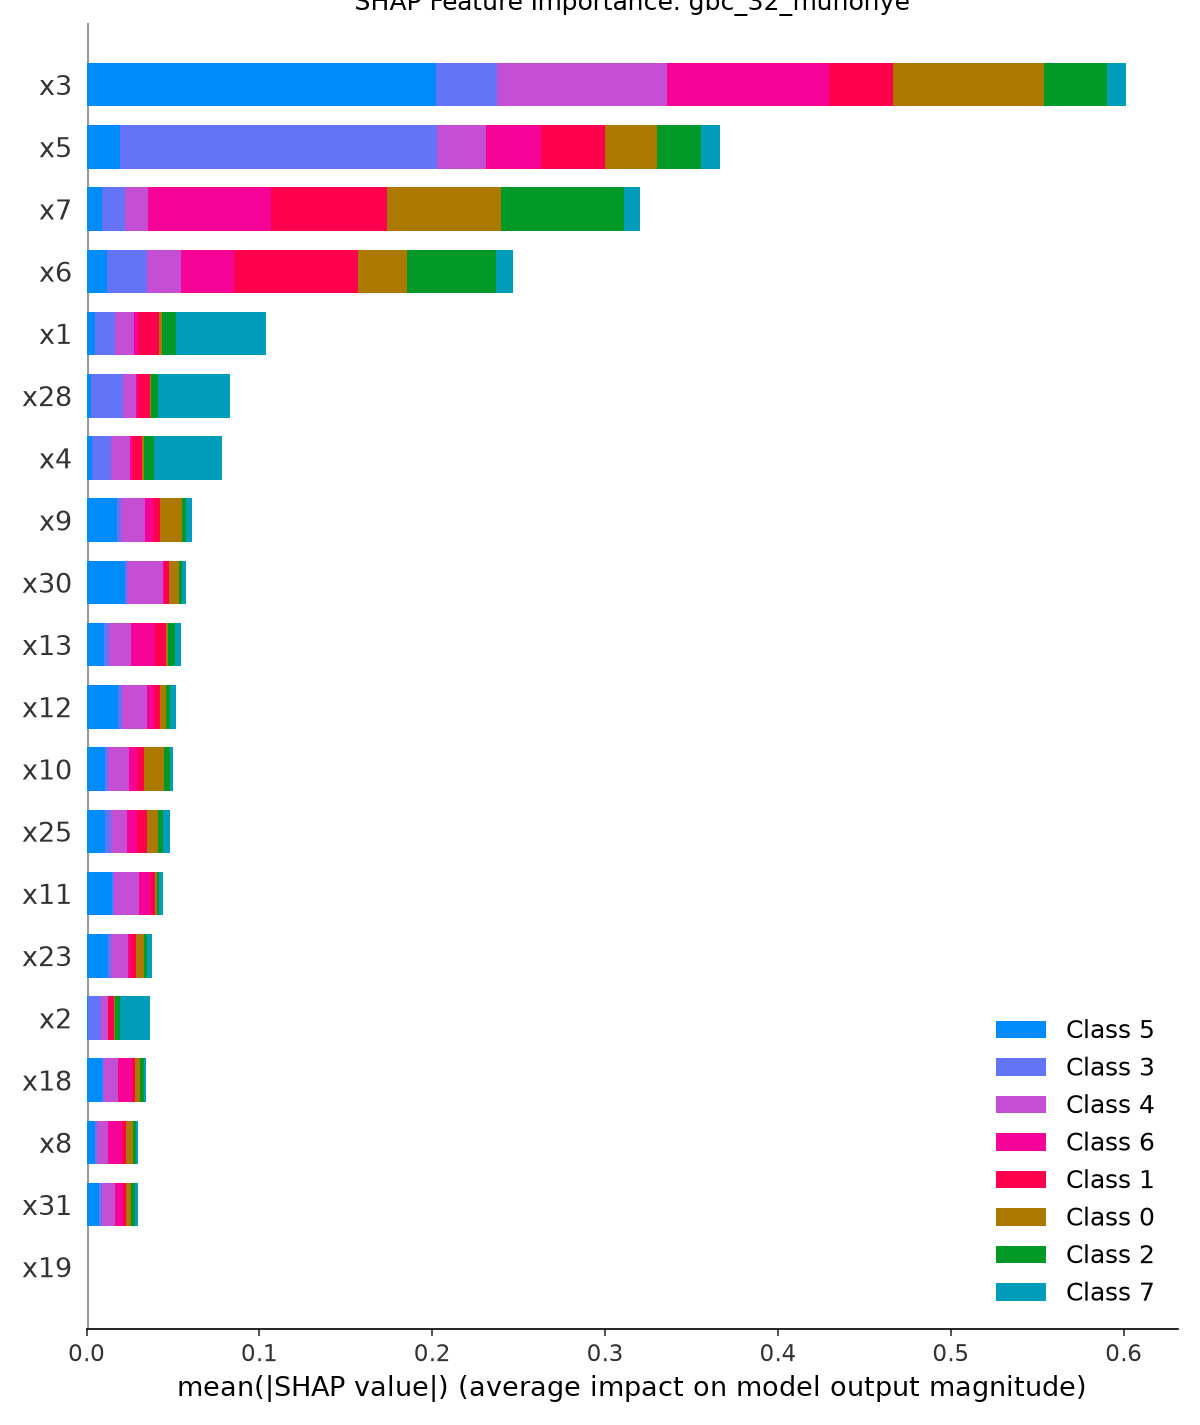
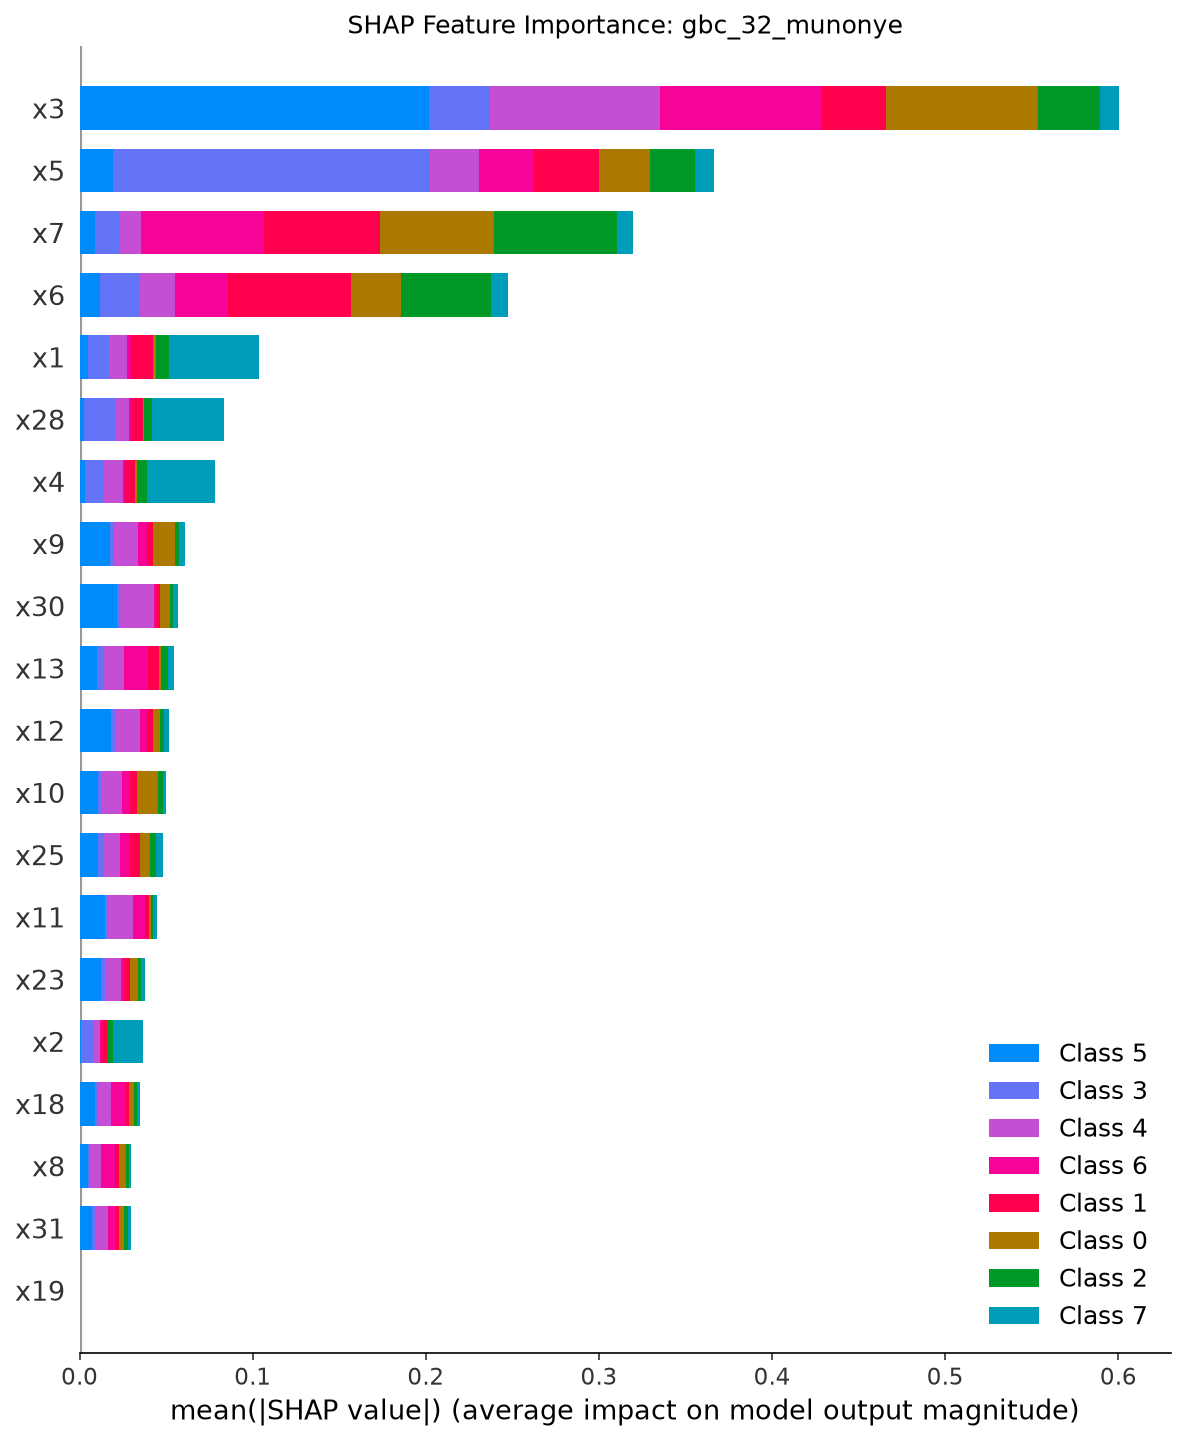
Updated evaluate.py to fix title being cut off and also added csv tables to show SHAP values

Changed region(s): [[0.0, 0.0, 0.9679, 0.9572], [0.8118, 0.7102, 0.9679, 0.9572], [0.1249, 0.9263, 0.9055, 0.9881]]

diff --git a/app/evaluate.py b/app/evaluate.py
@@ -13,7 +13,7 @@ import shap
 import matplotlib.pyplot as plt
 import joblib #To load gbc_32
 
-def explain_with_shap(model, X, feature_names, model_name: str):
+def explain_with_shap(model, X, feature_names, model_name: str, class_names=None):
     """Generate SHAP feature importance for a trained GBC model"""
     print(f"\n[SHAP] Generating explanations for {model_name}...")
     explainer = shap.Explainer(model.predict_proba, X)
@@ -22,9 +22,24 @@ def explain_with_shap(model, X, feature_names, model_name: str):
     plt.figure()
     shap.summary_plot(shap_values, X, feature_names=feature_names, show=False, plot_type="bar")
     plt.title(f"SHAP Feature Importance: {model_name}")
-    plt.savefig(f"shap_{model_name}_summary.png", dpi=150)
+    plt.savefig(f"shap_{model_name}_summary.png", dpi=150, bbox_inches="tight")
     plt.close()
     print(f"[SHAP] Saved shap_{model_name}_summary.png")
+
+    #CSV table
+    mean_abs_per_class = np.abs(shap_values.values).mean(axis=0) #(n_features, n_classes)
+    n_classes = mean_abs_per_class.shape[1]
+    if class_names is None:
+        class_names = [f"class_{i}" for i in range(n_classes)]
+    
+    table = pd.DataFrame(mean_abs_per_class, index=feature_names, columns=class_names)
+    table["total"] = table.sum(axis=1)
+    table = table.sort_values("total", ascending=False)
+
+    csv_path = f"shap_{model_name}_values.csv"
+    table.round(4).to_csv(csv_path)
+    print(f"[SHAP] Saved per-feature, per-class values to {csv_path}")
+    print(table.round(3).to_string())
 
 def main():
     #Load data and model
